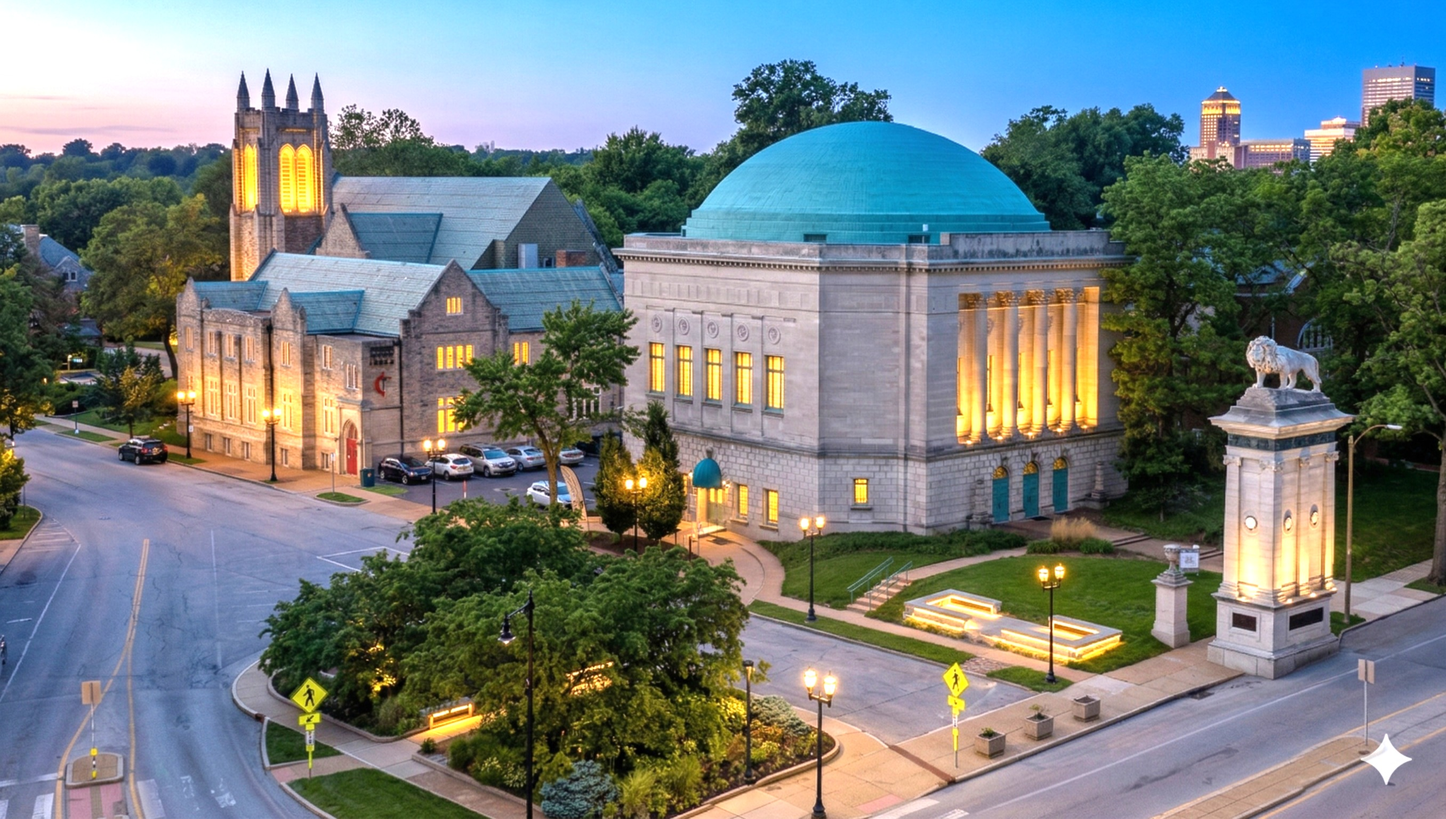
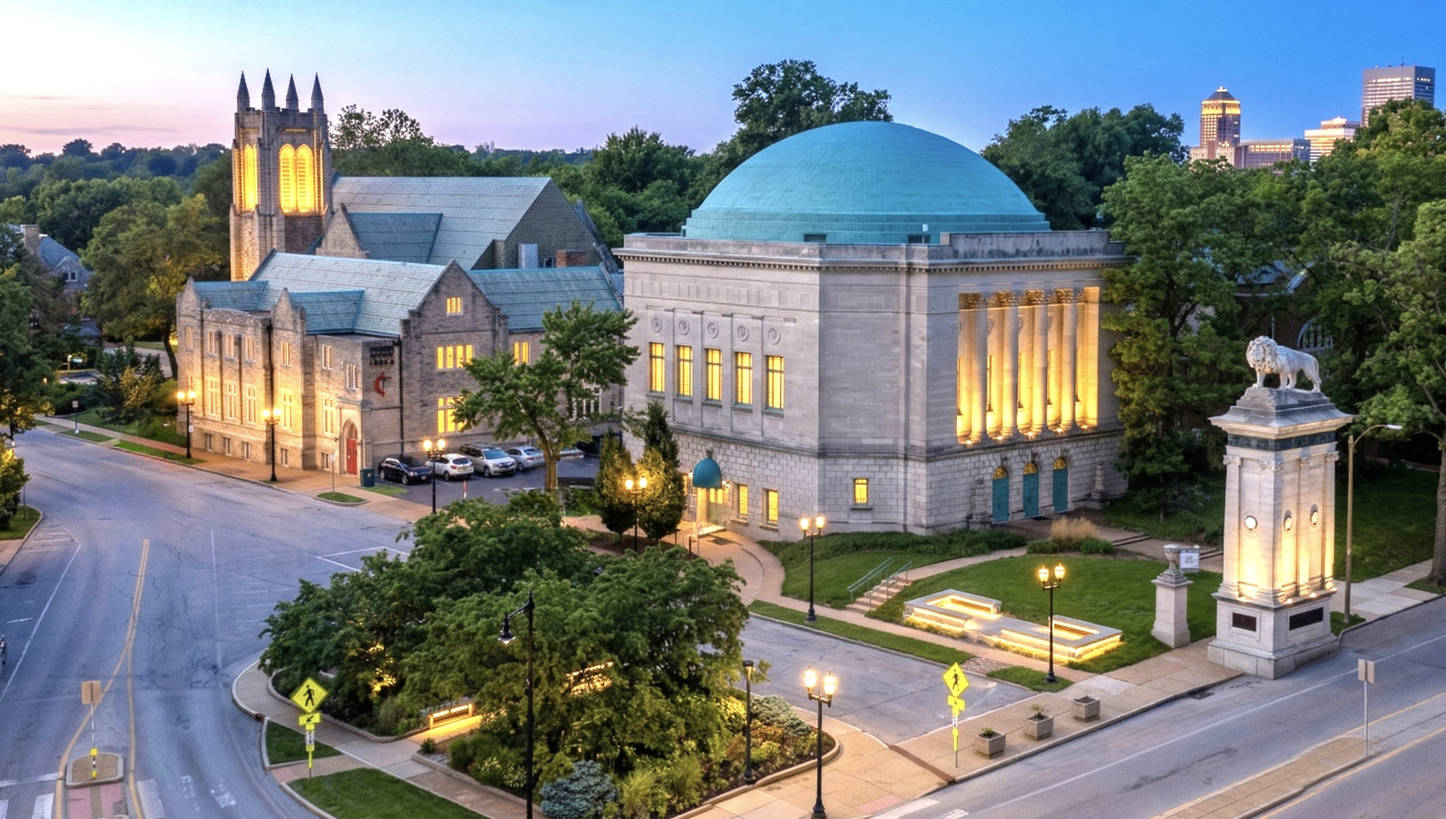
update html and an image

diff --git a/index.html b/index.html
@@ -419,12 +419,14 @@
       And so it returns. 140 years later.
     </div>
 
+    <img class="img-full" src="images/6901-corner.jpg" alt="6901 Washington — bell tower at dusk, stained glass illuminated">
+    <div class="img-caption">6901 Washington Avenue — bell tower at dusk</div>
+
     <div class="section-body">
       Two buildings stand ready — a 1924 Neoclassical dome and a 1920s Gothic Revival sanctuary — at the intersection of Delmar, Trinity, and Washington in University City. Together, they offer something no previous World Championship venue has had: architecture built for ceremony, acoustics shaped by a century of congregation, and a city that already believes chess matters.
     </div>
 
     <img class="img-full" src="images/campus-aerial.jpg" alt="6900 Delmar and 6901 Washington — aerial view">
-    <div class="img-caption">6900 Delmar (dome) and 6901 Washington (bell tower) — University City, Missouri</div>
 
   </div>
 
@@ -498,8 +500,8 @@
       At the intersection of Delmar Boulevard, Trinity Avenue, and Washington Avenue in University City — surrounded by COCA (Center of Creative Arts) and the Washington University Music Center — two churches built four years apart sit on a single block. Both are being transformed into a cultural campus. <strong>Both buildings are owned, not leased.</strong>
     </div>
 
-    <img class="img-full" src="images/campus-aerial.jpg" alt="Aerial view — 6900 Delmar and 6901 Washington, University City">
-    <div class="img-caption">6900 Delmar (dome) and 6901 Washington (bell tower)</div>
+    <img class="img-full" src="images/campus-horizontal.jpg" alt="6901 Washington and 6900 Delmar — east facade at dusk">
+    <div class="img-caption">6901 Washington and 6900 Delmar — east facade at dusk</div>
 
     <div class="section-divider"></div>
 
